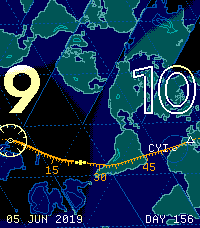
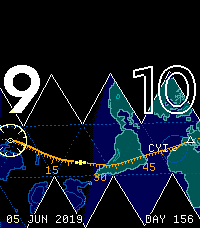
Rolling Fuller: a floating true net, every face printed once
Replace the endless fill, whose cuts landed wherever the fill happened
to meet, with a floating net grown from the route. The route's faces
come first, then up to two rings of neighbours, nearest the middle of
the hour first. Each face is printed at most once, so no place sits
beside a copy of itself. A face joins only where it truly meets every
face already beside it, so the net has no cuts. Outside the net is
plain paper; its outline is inked and interior folds are dotted. A
satellite's strip stays under one lap, so the route never rolls back
over its own faces. Tests hold these rules for every hour of the
archive day.

Claude-Session: https://claude.ai/code/session_013jrbqnwLffJYPYurYaCgSZ

diff --git a/src/roll.js b/src/roll.js
@@ -4,7 +4,8 @@
 // plane along the route instead, printing each face as it touches down, so
 // the route never meets a cut. The rest of the view is filled outward from
 // that strip on the same triangular lattice; where two printings disagree
-// the edge is a cut, drawn as such. On the Gray–Fuller faces great circles
+// the edge would be a cut, so the view keeps only a floating net around
+// the route: no cuts at all. On the Gray–Fuller faces great circles
 // are nearly straight, so a satellite's hour unrolls into a near-straight
 // line. The camera turns the plane so time always runs left to right.
 import {sampleTrack,MINUTE} from './ephemeris.js';
@@ -26,8 +27,10 @@ function rollTo(tile,dir){
   return tile;
 }
 
-export function rollCamera(body,start,{span=180,trackY=140}={}){
-  const world=body!=='sun'&&body!=='moon',step=world?MINUTE/4:MINUTE,lead=(world?20:40)*MINUTE;
+export function rollCamera(body,start,{span=180,trackY=140,rings=2}={}){
+  // A satellite's strip stays under one lap (about 92 min for the ISS), so
+  // the route never rolls back over a face it has already printed.
+  const world=body!=='sun'&&body!=='moon',step=world?MINUTE/4:MINUTE,lead=(world?10:40)*MINUTE;
   const samples=sampleTrack(body,start-lead,start+60*MINUTE+lead,step);
   // Roll along the route. Cells are keyed by lattice position; the route's
   // own printing always wins its cells.
@@ -43,20 +46,39 @@ export function rollCamera(body,start,{span=180,trackY=140}={}){
   const len=Math.hypot(b[0]-a[0],b[1]-a[1]),ux=(b[0]-a[0])/len,uy=(b[1]-a[1])/len,scale=span/len,mid=[(a[0]+b[0])/2,(a[1]+b[1])/2];
   const toScreenXY=p=>{const dx=p[0]-mid[0],dy=p[1]-mid[1];return {x:W/2+(dx*ux+dy*uy)*scale,y:trackY-(-dx*uy+dy*ux)*scale};};
   const toPlane=(x,y)=>{const s=(x-W/2)/scale,t=(trackY-y)/scale;return [mid[0]+s*ux-t*uy,mid[1]+s*uy+t*ux];};
-  // Fill the screen outward from the route strip, one lattice step at a time.
+  // A floating net: the faces the route rolls over, plus every face that
+  // truly touches them across an edge. A lattice cell that two faces would
+  // claim is left empty, so the net holds no cuts at all; the rest of the
+  // view is plain paper.
   const onScreen=tri=>{const q=tri.map(toScreenXY);return Math.max(...q.map(p=>p.x))>-2&&Math.min(...q.map(p=>p.x))<W+2&&Math.max(...q.map(p=>p.y))>-2&&Math.min(...q.map(p=>p.y))<H+2;};
-  const queue=[...path];
-  for(let i=0;i<queue.length&&queue.length<2000;i++)for(let e=0;e<3;e++){
-    const n=across(queue[i],e);if(cells.has(n.key)||!onScreen(n.tri))continue;
-    const t={face:n.face,tri:n.tri,key:n.key,route:false};cells.set(n.key,t);queue.push(t);
+  // A true net: every face at most once, and a face joins only where it
+  // truly meets every face already printed beside it, so neighbours are
+  // always consecutive on the globe. It grows ring by ring from the route,
+  // nearest the middle of the hour first.
+  const printed=new Set(path.map(t=>t.face));
+  let frontier=path;
+  for(let ring=0;ring<rings;ring++){
+    const candidates=[];
+    for(const t of frontier)for(let e=0;e<3;e++){const n=across(t,e);if(!cells.has(n.key)&&!printed.has(n.face)&&onScreen(n.tri))candidates.push(n);}
+    const mid=toScreenXY([(a[0]+b[0])/2,(a[1]+b[1])/2]),dist=n=>{const c=toScreenXY(centre(n.tri));return Math.hypot(c.x-mid.x,c.y-mid.y);};
+    candidates.sort((p,q)=>dist(p)-dist(q));
+    const added=[];
+    for(const n of candidates){
+      if(cells.has(n.key)||printed.has(n.face))continue;
+      const t={face:n.face,tri:n.tri,key:n.key,route:false};
+      const fits=[0,1,2].every(e=>{const m=across(t,e),there=cells.get(m.key);return !there||there.face===m.face;});
+      if(!fits)continue;
+      cells.set(n.key,t);printed.add(n.face);added.push(t);
+    }
+    frontier=added;
   }
   const tiles=[...cells.values()].filter(t=>onScreen(t.tri));
   for(const t of tiles){
     t.screen=t.tri.map(toScreenXY);
     const xs=t.screen.map(p=>p.x),ys=t.screen.map(p=>p.y);t.box=[Math.min(...xs),Math.min(...ys),Math.max(...xs),Math.max(...ys)];
-    // An edge is a fold where the neighbour printed there is the face the
-    // icosahedron really has across it; otherwise it is a cut.
-    t.edges=EDGES.map((_,e)=>{const n=across(t,e),there=cells.get(n.key);return {a:t.screen[EDGES[e][0]],b:t.screen[EDGES[e][1]],cut:!!there&&there.face!==n.face};});
+    // Inside the net every shared edge is a true fold of the icosahedron;
+    // an edge with nothing printed beyond it is the net's outline.
+    t.edges=EDGES.map((_,e)=>{const n=across(t,e),there=cells.get(n.key);return {a:t.screen[EDGES[e][0]],b:t.screen[EDGES[e][1]],cut:!!there&&there.face!==n.face,outline:!there};});
   }
   const locate=(x,y)=>{
     const p=toPlane(x,y);
@@ -72,6 +94,6 @@ export function rollCamera(body,start,{span=180,trackY=140}={}){
     return best||{x:-999,y:-999};
   };
   const track=flat.map(p=>({...p,...toScreenXY(p.xy)}));
-  return {body,start,world:false,fuller:true,wide:world,track,scale,band:{top:0,bottom:H},tiles,toScreen:project,toGround,project,
+  return {body,start,world:false,fuller:true,wide:world,outside:(x,y)=>!locate(x,y),track,scale,band:{top:0,bottom:H},tiles,toScreen:project,toGround,project,
     stations:[track[i0],track[i1]],key:`fuller/${body}/${start}/${span}`};
 }

diff --git a/index.html b/index.html
@@ -9,7 +9,7 @@
 <fieldset><legend>Follow</legend><div class="segmented"><button data-body="sun" aria-pressed="true">Sun</button><button data-body="moon" aria-pressed="false">Moon</button><button data-body="iss" aria-pressed="false">ISS archive</button></div><p class="help" id="body-note"></p></fieldset>
 <fieldset id="live-satellites"><legend>Live satellites</legend><div class="live-row"><select id="sat-select" aria-label="Satellite"></select><button id="sat-track">Track now</button></div><p class="help" id="sat-status">Current orbital elements come from CelesTrak, at most once every two hours per satellite, and are used only within three days of their own epoch.</p></fieldset>
 <fieldset id="moon-light"><legend>Moonlight</legend><div class="segmented"><button data-observation="day" aria-pressed="true">By day</button><button data-observation="dusk" aria-pressed="false">Nightfall</button><button data-observation="night" aria-pressed="false">By night</button></div><p class="help">The same Moon over three evenings. On the paper plates, night is a printed dot tint that deepens through civil twilight.</p></fieldset>
-<fieldset><legend>Projection</legend><div class="segmented"><button data-projection="chart" aria-pressed="true">Chart</button><button data-projection="fuller" aria-pressed="false">Rolling Fuller</button></div><p class="help" id="projection-note">A spike: the icosahedron rolls along the route, printing each face as it touches down, so the route never meets a cut. Time runs left to right; the compass rose shows where north is.</p></fieldset>
+<fieldset><legend>Projection</legend><div class="segmented"><button data-projection="chart" aria-pressed="true">Chart</button><button data-projection="fuller" aria-pressed="false">Rolling Fuller</button></div><p class="help" id="projection-note">A spike: the icosahedron rolls along the route, printing each face as it touches down, and floats as a net on the paper: the route’s faces and their true neighbours, with no cuts. Time runs left to right; the compass rose shows where north is.</p></fieldset>
 <fieldset><legend>Plate</legend><div id="enroute-plates" class="theme-options"></div></fieldset>
 <fieldset><legend>Read the chart</legend><p class="help">The hour figures stand over their stations: this hour solid over its compass rose, the next outlined over its reporting point. Between them the magenta route is a graduated scale, two pixels a minute, with longer marks at five and fifteen minutes and the quarters numbered. The Sun or Moon symbol is the index; the bold line behind it is the hour already flown. On the ISS world view the same scale is set in a panel above the map, with a triangular index. A plain minute figure can be added under Clock. Contours fall every 1,000 m, dotted at 500 m; offshore, the dotted blue line is the 200 m edge of the continental shelf. Three-letter codes are the tracking stations of NASA’s Mercury and Apollo networks. The margin carries the date and its day of the year.</p></fieldset>
 <details class="art-options"><summary>Clock</summary><div><label class="select-label" for="enroute-zone">Clock zone<select id="enroute-zone"><option value="America/New_York">Eastern time</option><option value="UTC">UTC</option><option value="Europe/London">London</option><option value="Asia/Kolkata">Kolkata</option></select></label><label class="art-checkbox"><input type="checkbox" id="enroute-24"> 24-hour figures</label><label class="art-checkbox"><input type="checkbox" id="enroute-readout"> Minute figure over the index</label></div></details><div class="art-study-date"><span id="enroute-date"></span><span>FROZEN STUDY</span></div></aside></section>

diff --git a/src/enroute-render.js b/src/enroute-render.js
@@ -142,10 +142,9 @@ export function renderEnroute({camera,ground,relief,light:zones,plate,epoch,time
   // and degree ticks along the edges of the map, like a chart's neatline.
   const step=camera.world?30:5,minor=camera.world?10:1,{bottom}=camera.band,top=camera.band.top,inBand=y=>y>=top&&y<=bottom;
   if(camera.fuller){
-    // Rolling Fuller: fold lines where the icosahedron bends, dotted and
-    // quiet; cut lines, solid, where two printings of the Earth meet.
+    // Rolling Fuller: the net's outline in ink, folds inside it dotted.
     for(const t of camera.tiles)for(const e of t.edges){
-      let n=0;segment(e.a,e.b,(x,y)=>{if(e.cut||(n++%4===0))plot(buf,x,y,ink('grid')(x,y));});
+      let n=0;segment(e.a,e.b,(x,y)=>{if(e.outline)plot(buf,x,y,pal.spaceInk);else if(e.cut||(n++%4===0))plot(buf,x,y,ink('grid')(x,y));});
     }
   }else{
   const g0=camera.toGround(0,bottom),g1=camera.toGround(W,top);

diff --git a/src/chart-render.js b/src/chart-render.js
@@ -84,7 +84,7 @@ export function groundLayer(camera,atlas){
   const land=new Uint8Array(W*H),dirs=new Array(W*H).fill(null),space=new Uint8Array(W*H);
   for(let y=0;y<H;y++)for(let x=0;x<W;x++){
     const i=y*W+x;
-    if(y<camera.band.top||y>camera.band.bottom){space[i]=1;continue;}
+    if(y<camera.band.top||y>camera.band.bottom||camera.outside?.(x+.5,y+.5)){space[i]=1;continue;}
     let c=0;for(const [dx,dy] of SAMPLES){const g=camera.toGround(x+dx,y+dy);c+=coverage(atlas,g.lat,g.lon);}
     const g=camera.toGround(x+.5,y+.5);land[i]=c>=2?1:0;dirs[i]=direction(g.lat,g.lon);
   }

diff --git a/docs/STUDY-06.md b/docs/STUDY-06.md
@@ -36,18 +36,21 @@ This cloud build environment blocks celestrak.org, so the tests replace CelesTra
 
 ## Spike: rolling Fuller
 
-Studies 03 and 04 used a fixed icosahedral net. Because only five faces meet at a vertex, any flat net has cuts, and routes broke at them. The spike (`src/roll.js`, *Projection → Rolling Fuller* on the page) rolls the icosahedron across the plane along the route instead, printing each Gray–Fuller face as it touches down. The route therefore never crosses a cut. The rest of the screen is filled outward from that strip on the same triangular lattice. It is an infinite tiling, generated only as far as the view needs. Where the icosahedron really folds, the edge is a quiet dotted line; where two printings of the Earth meet without matching, it is a solid cut line.
+Studies 03 and 04 used a fixed icosahedral net. A flat triangle grid puts six triangles around every corner, but the icosahedron has only five, so any flat net must cut the Earth somewhere, and routes broke at those cuts. This is geometry, not a rendering fault: a sphere cannot lie flat without stretching or tearing.
 
-Choices that keep it clean:
-- The camera turns the sheet so the hour always runs left to right, like a ruler. The compass rose on this hour's station turns to true north, because north is no longer up.
-- On a whole-orbit sheet the graticule crosses go (the lattice is the grid) and only the 2,000 m and 4,000 m contours remain.
-- Only the tracking stations that can hear the satellite during this hour are shown, each with its acquisition circle.
+The spike (`src/roll.js`, *Projection → Rolling Fuller* on the page) rolls the icosahedron across the plane along the route instead, printing each Gray–Fuller face as it touches down, so the route never meets a cut. A first version then filled the whole screen outward from that strip, an endless tiling. It worked, but the fill order scattered cuts wherever two directions met, and the result looked broken.
 
-It suits satellites best. On the Gray–Fuller faces great circles are nearly straight, so an ISS hour, about 240° of orbit, unrolls across four to five faces as a near-straight graduated line. Small kinks remain where it crosses a face edge, because the transform is not exactly gnomonic, and the Earth's rotation bends the ground track slightly. For the Sun and Moon an hour covers only a fraction of one face, so the sheet mostly shows a single tilted triangle.
+The current version is a **floating net**, a true net of the icosahedron grown from the route. The faces the route rolls over come first; then up to two rings of neighbours are added, nearest the middle of the hour first. Each face is printed at most once, so no place ever appears beside a copy of itself, and a face joins only where it truly meets every face already printed beside it. Neighbouring faces are therefore always consecutive on the globe, and the net contains no cuts at all. A satellite's strip is also kept under one lap (the hour plus ten minutes either side, against the ISS's 92-minute orbit), so the route never rolls back over its own faces. Folds inside it are quiet dotted lines, its outline is inked, and the rest of the view is plain paper (or dark glass on the Plotboard). The camera turns the net so the hour runs left to right like a ruler, and the compass rose points to true north, because north is no longer up. On a whole-orbit net only the 2,000 m and 4,000 m contours remain, and only the tracking stations that can hear the satellite during this hour are drawn, each with its acquisition circle.
+
+It suits satellites best. On the Gray–Fuller faces great circles are nearly straight, so an ISS hour, about 240° of orbit, unrolls into a zigzag band of four or five faces, with the orbit as a near-straight graduated line through the middle. Small kinks remain at face edges, because the transform is not exactly gnomonic and the Earth turns beneath the orbit. For the Sun and Moon an hour covers only part of one face, so the net fills the view as a single tilted triangle.
 
 ![Rolling Fuller spike proofs](screenshots/study-06-fuller-contact-sheet.png)
 
-Tests check that the rolled route never jumps (consecutive samples share a face or truly adjacent faces), that the hour runs horizontally left to right, that every on-screen pixel inverts to the right place on Earth, and that folds and cuts are both present and classified.
+Tests check the following:
+- The rolled route never jumps.
+- The hour runs horizontally left to right.
+- For every hour of the archive day, the net holds no cuts (only folds and its outline) and prints no face twice.
+- Every point inside the net inverts to the right place on Earth.
 
 ## Plates
 
